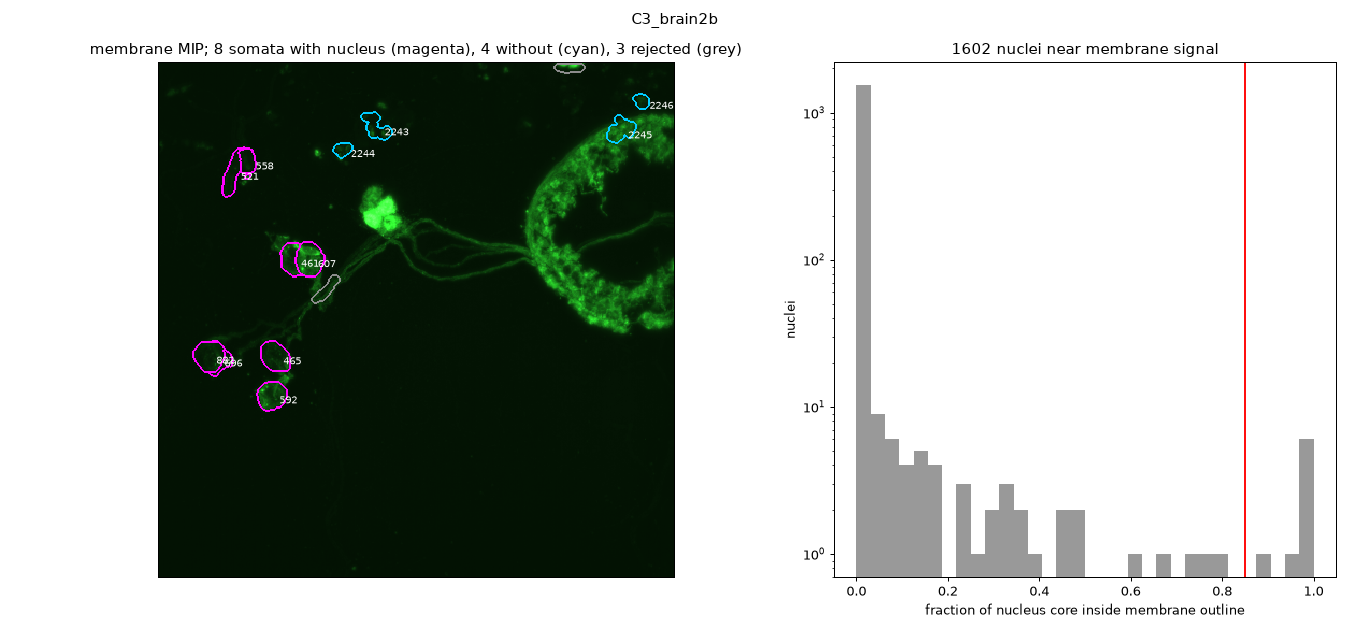
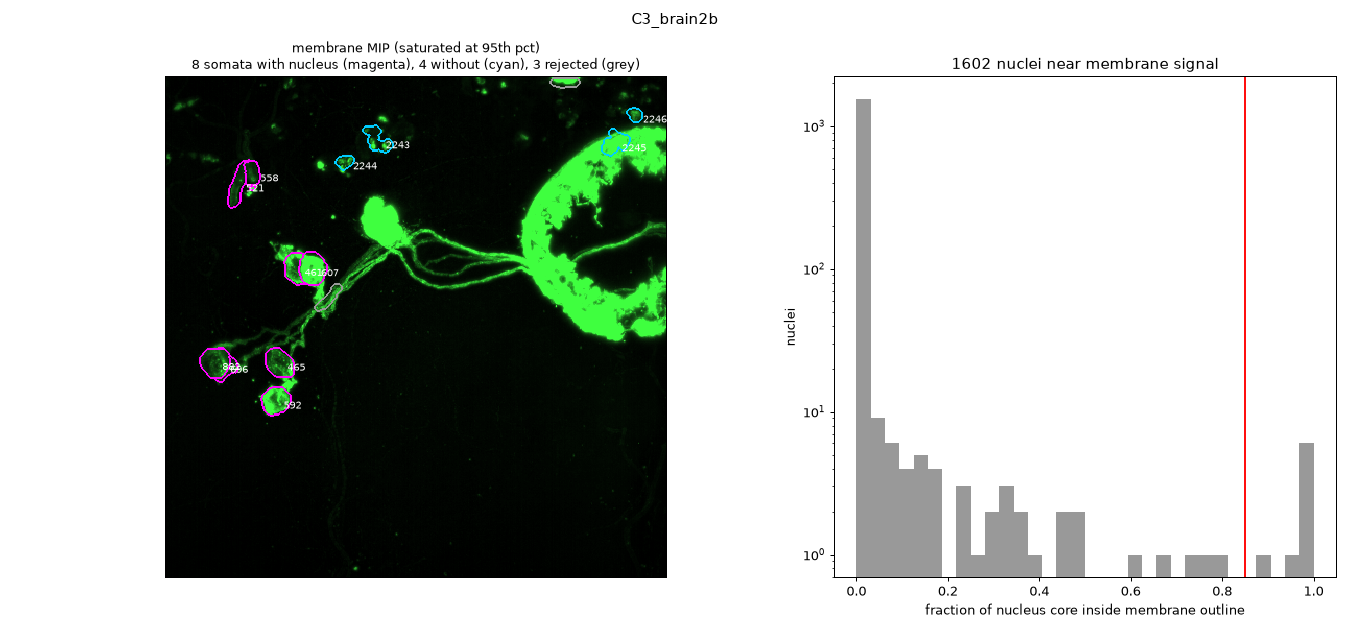
Draw the segmentation QC figure in its own rule, saturated at the 95th percentile
At the 99.8th percentile dim somata were too dark to judge. The figure moves
out of segment.py into segmentation_qc.py, drawn from the saved labels, so
display changes no longer re-run Cellpose (which could renumber cells and
break exclude_cells). The membrane outline step is shared via
common.membrane_outline.

diff --git a/workflow/scripts/segment.py b/workflow/scripts/segment.py
@@ -20,17 +20,15 @@
    a thick body (some voxel at least orphan_min_core_um from its surface) that
    is evenly filled with membrane signal (coefficient of variation at most
    orphan_max_cv). Neuropil that survives the opening (D1 dendrites, D3
-   arbours) is patchy, and fibre bundles are thin. Rejected components are
-   drawn grey in the QC figure.
+   arbours) is patchy, and fibre bundles are thin.
+
+The QC figure is drawn by segmentation_qc.py from the saved labels, so it can
+be redrawn without re-running Cellpose.
 
 Everything runs on a grid downsampled by `downsample` (near-isotropic ~0.5 um
 voxels); the label images are written on that grid. A cell with a nucleus
 takes the nucleus's ID, so nuclei_labels.tif identifies each soma's nucleus.
 """
-import matplotlib
-
-matplotlib.use("Agg")
-import matplotlib.pyplot as plt
 import numpy as np
 import pandas as pd
 import tifffile
@@ -39,9 +37,8 @@ import zarr
 from cellpose import models
 from scipy import ndimage as ndi
 from skimage.measure import block_reduce
-from skimage.segmentation import find_boundaries
 
-from common import channel_index, setup_logging
+from common import channel_index, membrane_outline, setup_logging
 
 log = setup_logging(snakemake)  # noqa: F821
 
@@ -56,27 +53,12 @@ def load(emission_nm):
                         block, np.mean).astype(np.float32)
 
 
-def ball(radius_um):
-    """Ellipsoidal footprint of the given physical radius on the anisotropic grid."""
-    r = np.floor(radius_um / vox).astype(int)
-    z, y, x = np.ogrid[-r[0]:r[0] + 1, -r[1]:r[1] + 1, -r[2]:r[2] + 1]
-    return (z * vox[0]) ** 2 + (y * vox[1]) ** 2 + (x * vox[2]) ** 2 <= radius_um ** 2
-
-
 membrane = load(p["membrane_emission_nm"])
 dapi = load(p["nuclei_emission_nm"])
 log.info("grid %s, voxel %s um", membrane.shape, vox.round(3))
 
 # --- 1. membrane outline ------------------------------------------------------------
-smooth = ndi.gaussian_filter(membrane, 0.5)
-median = np.median(smooth)
-mad = 1.4826 * np.median(np.abs(smooth - median))
-local_max = ndi.maximum_filter(smooth, footprint=ball(p["local_window_um"]))
-fg = (smooth > median + p["membrane_threshold_mads"] * mad) & \
-     (smooth - median > p["local_contrast"] * (local_max - median))
-closed = ndi.binary_closing(fg, ball(p["close_um"]), border_value=0)
-filled = ndi.binary_fill_holes(closed) | np.stack([ndi.binary_fill_holes(plane) for plane in closed])
-outline = ndi.binary_opening(filled, ball(p["neurite_um"]))
+smooth, fg, outline = membrane_outline(membrane, p, vox)
 components, n_components = ndi.label(outline)
 log.info("membrane foreground %.3f%% of voxels; outline %.3f%% in %d components",
          100 * fg.mean(), 100 * outline.mean(), n_components)
@@ -141,7 +123,7 @@ for k, box in enumerate(ndi.find_objects(soma), 1):
 has_labelled = np.unique(components[is_labelled & outline])
 candidates = [c for c in range(1, n_components + 1)
               if c not in has_labelled and min_soma <= component_volume[c - 1] <= max_soma]
-orphans, rejected = [], np.zeros(soma.shape, bool)
+orphans = []
 component_boxes = ndi.find_objects(components)
 for c in candidates:
     box = component_boxes[c - 1]
@@ -154,8 +136,6 @@ for c in candidates:
              c, component_volume[c - 1], core, cv, "kept" if keep else "rejected")
     if keep:
         orphans.append(c)
-    else:
-        rejected[box] |= own
 orphan_ids = list(range(int(nuclei.max()) + 1, int(nuclei.max()) + 1 + len(orphans)))
 for c, k in zip(orphans, orphan_ids):
     soma[components == c] = k
@@ -186,24 +166,3 @@ for path, labels in [(snakemake.output.soma, soma), (snakemake.output.nuclei, nu
                      metadata={"axes": "ZYX", "spacing": vox[0], "unit": "um"})
 log.info("soma volumes (um3): %s", table.soma_volume_um3.round().tolist())
 
-# --- QC: membrane MIP with cell outlines, and the nucleus score distribution --------
-fig, (ax_img, ax_hist) = plt.subplots(1, 2, figsize=(15, 7), gridspec_kw={"width_ratios": [1.6, 1]})
-mip = membrane.max(axis=0)
-rgb = np.clip(np.dstack([mip] * 3) / np.percentile(mip, 99.8) * [0.2, 1, 0.2], 0, 1)
-rgb[find_boundaries(rejected.max(axis=0))] = 0.55
-rgb[find_boundaries(np.where(np.isin(soma, labelled), soma, 0).max(axis=0))] = [1, 0, 1]
-rgb[find_boundaries(np.where(np.isin(soma, orphan_ids), soma, 0).max(axis=0))] = [0, 0.8, 1]
-ax_img.imshow(rgb, interpolation="nearest")
-for _, row in table.iterrows():
-    ax_img.annotate(str(row.cell_id), (row.x_um / vox[2], row.y_um / vox[1]), color="w", fontsize=8,
-                    xytext=(6, -6), textcoords="offset points")
-ax_img.set(title=f"membrane MIP; {len(labelled)} somata with nucleus (magenta), "
-                 f"{len(orphan_ids)} without (cyan), {len(candidates) - len(orphans)} rejected (grey)",
-           xticks=[], yticks=[])
-ax_hist.hist(inside, bins=np.linspace(0, 1, 33), color="0.6")
-ax_hist.axvline(p["min_nucleus_inside"], color="r")
-ax_hist.set(yscale="log", xlabel="fraction of nucleus core inside membrane outline", ylabel="nuclei",
-            title=f"{len(ids)} nuclei near membrane signal")
-fig.suptitle(snakemake.wildcards.sample)
-fig.tight_layout()
-fig.savefig(snakemake.output.qc, dpi=90)

diff --git a/workflow/scripts/segmentation_qc.py b/workflow/scripts/segmentation_qc.py
@@ -1,0 +1,78 @@
+"""Segmentation QC figure, drawn from segment.py's saved labels.
+
+Left: membrane MIP on the segmentation grid with somata with a nucleus
+(magenta), nucleus-free cells (cyan) and soma-sized outline components that
+the nucleus-free filter rejected (grey). The MIP saturates at
+saturation_percentile so dim somata stay visible. Right: the fraction of each
+nucleus's core inside the membrane outline, with the min_nucleus_inside cut.
+
+The outline is recomputed as in segment.py (common.membrane_outline); the
+rejected components are the soma-sized ones holding no cell.
+"""
+import matplotlib
+
+matplotlib.use("Agg")
+import matplotlib.pyplot as plt
+import numpy as np
+import pandas as pd
+import tifffile
+import zarr
+from scipy import ndimage as ndi
+from skimage.measure import block_reduce
+from skimage.segmentation import find_boundaries
+
+from common import channel_index, membrane_outline, setup_logging
+
+log = setup_logging(snakemake)  # noqa: F821
+
+p = snakemake.params.segmentation
+store = zarr.open(snakemake.input.image, mode="r")
+block = tuple(p["downsample"])
+vox = np.array(store.attrs["physical_pixel_sizes"]) * block
+membrane = block_reduce(np.asarray(store[channel_index(store, p["membrane_emission_nm"])]),
+                        block, np.mean).astype(np.float32)
+soma = tifffile.imread(snakemake.input.soma)
+nuclei = tifffile.imread(snakemake.input.nuclei)
+cells = pd.read_csv(snakemake.input.table)
+with_nucleus = cells.cell_id[cells.has_nucleus].to_numpy()
+without = cells.cell_id[~cells.has_nucleus].to_numpy()
+
+_, _, outline = membrane_outline(membrane, p, vox)
+components, n = ndi.label(outline)
+volume = np.bincount(components.ravel(), minlength=n + 1) * vox.prod()
+min_soma, max_soma = p["soma_volume_um3"]
+holds_cell = np.zeros(n + 1, bool)
+holds_cell[np.unique(components[soma > 0])] = True
+rejected_ids = np.flatnonzero((volume >= min_soma) & (volume <= max_soma) & ~holds_cell)
+rejected_ids = rejected_ids[rejected_ids > 0]
+rejected = np.isin(components, rejected_ids)
+
+ids = np.unique(nuclei[nuclei > 0])
+depth = ndi.distance_transform_edt(nuclei > 0, sampling=vox)
+core = (depth >= p["nucleus_core_um"]) & (nuclei > 0)
+inside = np.nan_to_num(ndi.mean(outline[core], nuclei[core], ids))
+
+fig, (ax_img, ax_hist) = plt.subplots(1, 2, figsize=(15, 7), gridspec_kw={"width_ratios": [1.6, 1]})
+mip = membrane.max(axis=0)
+lo, hi = np.percentile(mip, [1, snakemake.params.saturation_percentile])
+g = np.clip((mip - lo) / (hi - lo + 1e-9), 0, 1)
+rgb = np.dstack([g * 0.25, g, g * 0.25])
+rgb[find_boundaries(rejected.max(axis=0))] = 0.6
+rgb[find_boundaries(np.where(np.isin(soma, with_nucleus), soma, 0).max(axis=0))] = [1, 0, 1]
+rgb[find_boundaries(np.where(np.isin(soma, without), soma, 0).max(axis=0))] = [0, 0.8, 1]
+ax_img.imshow(rgb, interpolation="nearest")
+for _, row in cells.iterrows():
+    ax_img.annotate(str(row.cell_id), (row.x_um / vox[2], row.y_um / vox[1]), color="w", fontsize=8,
+                    xytext=(6, -6), textcoords="offset points")
+ax_img.set_title(f"membrane MIP (saturated at {snakemake.params.saturation_percentile:g}th pct)\n"
+                 f"{len(with_nucleus)} somata with nucleus (magenta), {len(without)} without (cyan), "
+                 f"{len(rejected_ids)} rejected (grey)", fontsize=10)
+ax_img.set(xticks=[], yticks=[])
+ax_hist.hist(inside, bins=np.linspace(0, 1, 33), color="0.6")
+ax_hist.axvline(p["min_nucleus_inside"], color="r")
+ax_hist.set(yscale="log", xlabel="fraction of nucleus core inside membrane outline", ylabel="nuclei",
+            title=f"{len(ids)} nuclei near membrane signal")
+fig.suptitle(snakemake.wildcards.sample)
+fig.tight_layout()
+fig.savefig(snakemake.output[0], dpi=90)
+log.info("%d with nucleus, %d without, %d rejected", len(with_nucleus), len(without), len(rejected_ids))

diff --git a/workflow/scripts/common.py b/workflow/scripts/common.py
@@ -6,6 +6,7 @@ import logging
 import sys
 
 import numpy as np
+from scipy import ndimage as ndi
 from scipy.signal import find_peaks
 from scipy.stats import gaussian_kde
 
@@ -54,3 +55,26 @@ def min_amplitude(amplitudes, spot_filter, override=None):
     noise, puncta = peaks[0], peaks[1:][np.argmax(density[peaks[1:]])]
     valley = noise + np.argmin(density[noise:puncta + 1])
     return float(10 ** grid[valley]), "valley"
+
+
+def grid_ball(radius_um, vox):
+    """Ellipsoidal footprint of the given physical radius on an anisotropic grid."""
+    r = np.floor(radius_um / vox).astype(int)
+    z, y, x = np.ogrid[-r[0]:r[0] + 1, -r[1]:r[1] + 1, -r[2]:r[2] + 1]
+    return (z * vox[0]) ** 2 + (y * vox[1]) ** 2 + (x * vox[2]) ** 2 <= radius_um ** 2
+
+
+def membrane_outline(membrane, p, vox):
+    """Step 1 of segment.py, shared with its QC figure: (smoothed membrane,
+    foreground, outline). Foreground is above a global threshold and bright
+    relative to the brightest membrane nearby; the outline is the foreground
+    closed, filled and opened to strip neurites."""
+    smooth = ndi.gaussian_filter(membrane, 0.5)
+    median = np.median(smooth)
+    mad = 1.4826 * np.median(np.abs(smooth - median))
+    local_max = ndi.maximum_filter(smooth, footprint=grid_ball(p["local_window_um"], vox))
+    fg = (smooth > median + p["membrane_threshold_mads"] * mad) & \
+         (smooth - median > p["local_contrast"] * (local_max - median))
+    closed = ndi.binary_closing(fg, grid_ball(p["close_um"], vox), border_value=0)
+    filled = ndi.binary_fill_holes(closed) | np.stack([ndi.binary_fill_holes(plane) for plane in closed])
+    return smooth, fg, ndi.binary_opening(filled, grid_ball(p["neurite_um"], vox))
